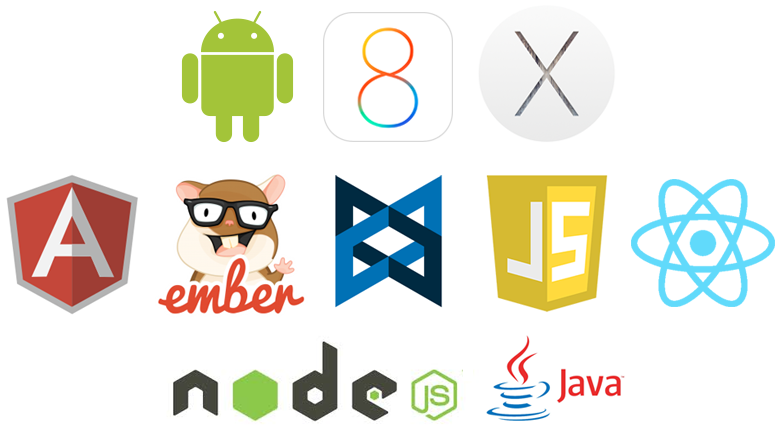
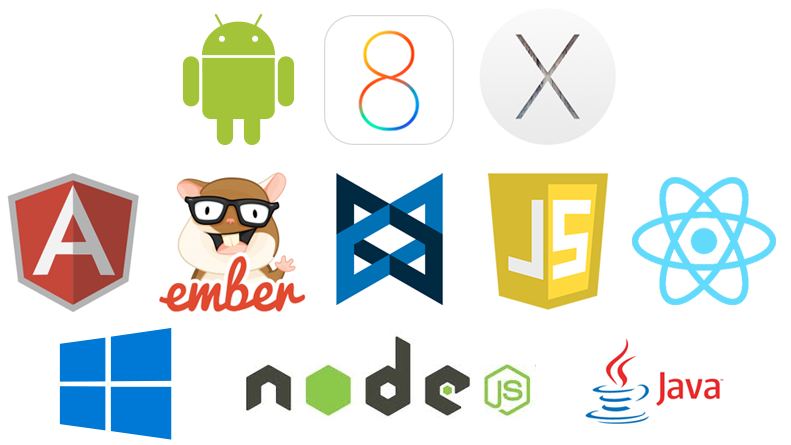
added code tabs

diff --git a/public/controllers/indexController.js b/public/controllers/indexController.js
@@ -96,22 +96,33 @@ var hideAllCode = function(){
     $('#div-storage-js').hide();
     $('#div-storage-nodejs').hide();
     $('#div-storage-java').hide();
+    $('#div-storage-dotnet').hide();
+    $('#div-storage-curl').hide();
 
     $('#div-search-js').hide();
     $('#div-search-nodejs').hide();
     $('#div-search-java').hide();
+    $('#div-search-dotnet').hide();
+    $('#div-search-curl').hide();
 
     $('#div-realtime-js').hide();
     $('#div-realtime-nodejs').hide();
     $('#div-realtime-java').hide();
+    $('#div-realtime-dotnet').hide();
+    $('#div-realtime-curl').hide();
 
     $('#div-queues-js').hide();
     $('#div-queues-nodejs').hide();
     $('#div-queues-java').hide();
+    $('#div-queues-dotnet').hide();
+    $('#div-queues-curl').hide();
+
 
     $('#div-cache-js').hide();
     $('#div-cache-nodejs').hide();
-    $('#div-cache-java').hide();        
+    $('#div-cache-java').hide();
+    $('#div-cache-dotnet').hide();
+    $('#div-cache-curl').hide();        
 };
 
 function feautureIntroText(featureName){
